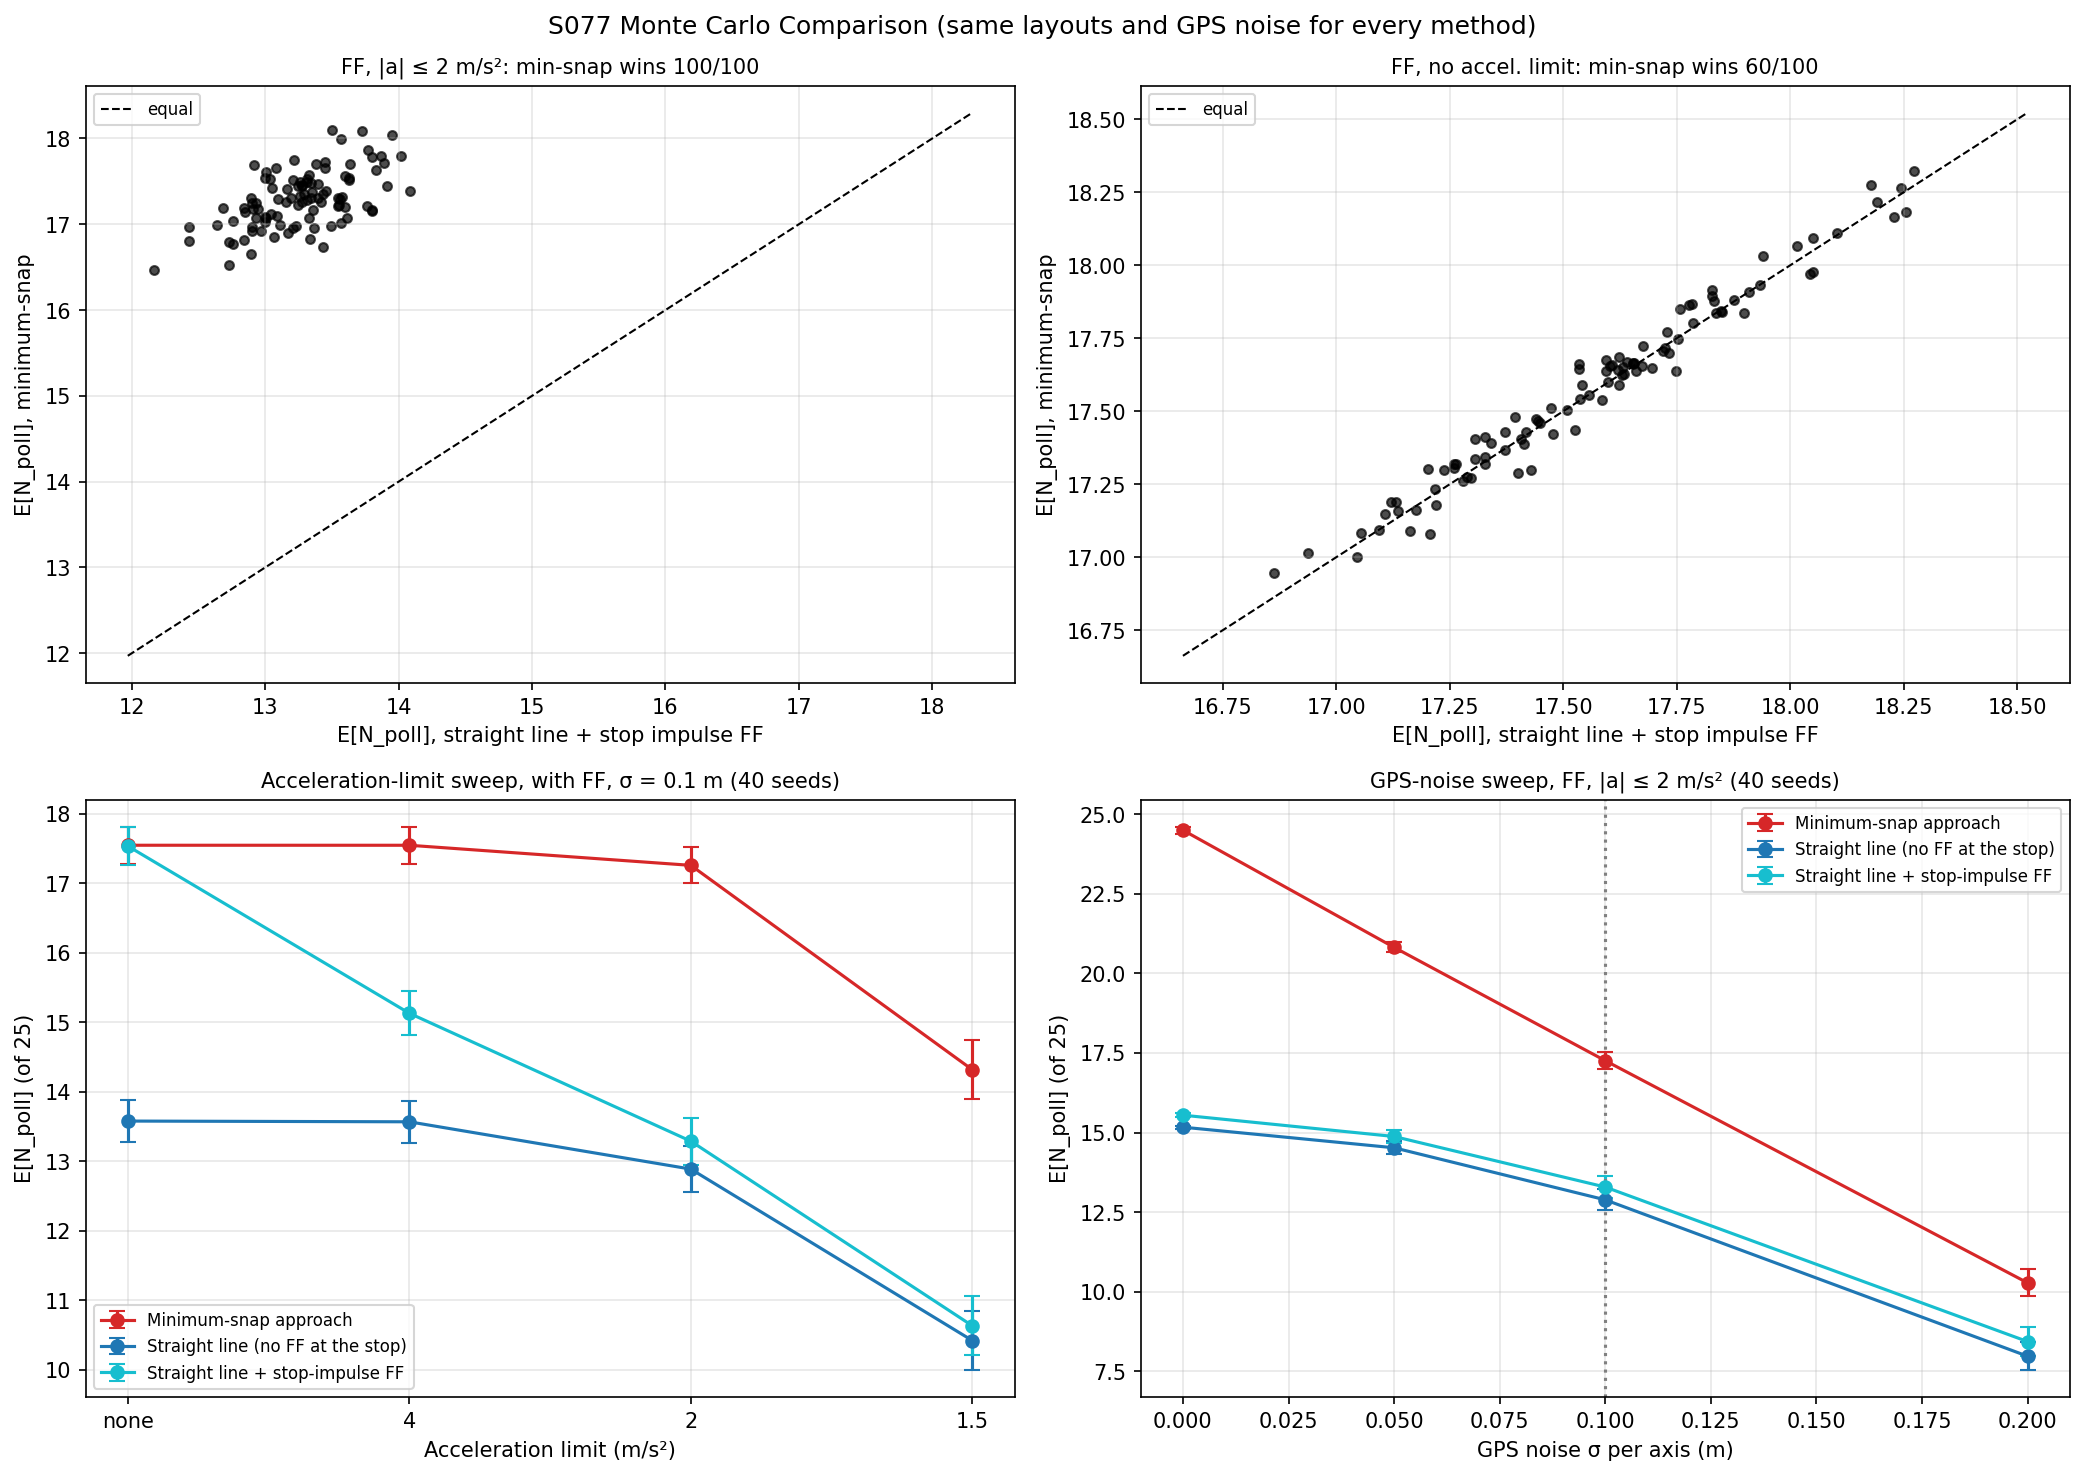
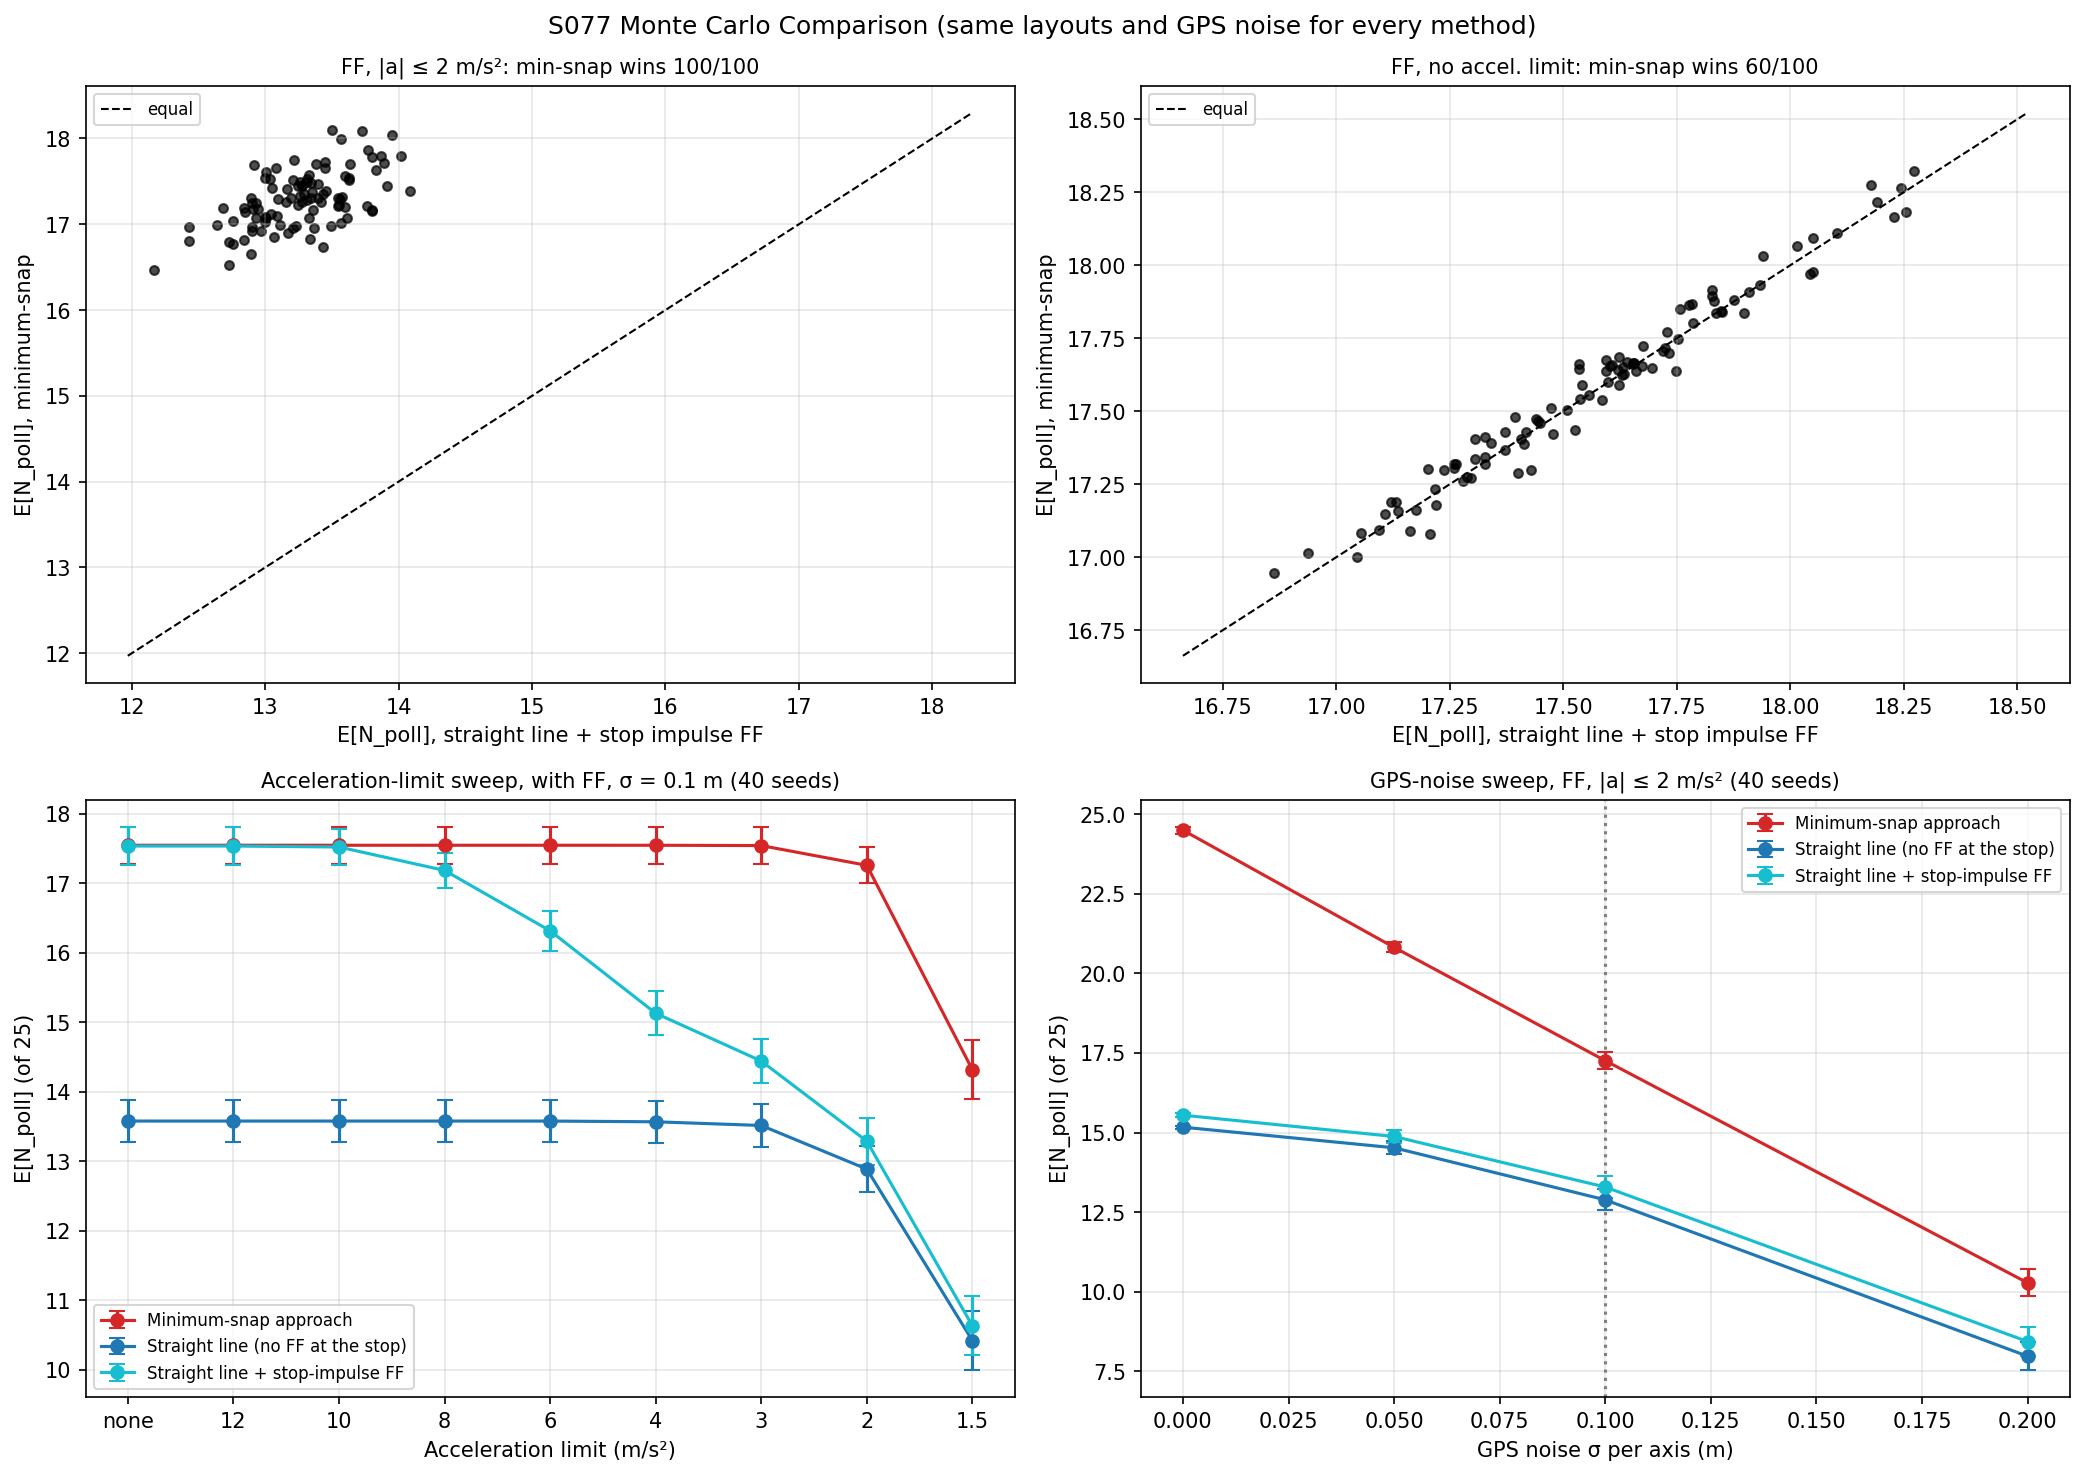
Fix S077 Precision Pollination Flight Pattern: address review follow-ups
Extend the acceleration-limit sweep to 12, 10, 8, 6 and 3 m/s^2 with paired
gaps; state that the min-snap advantage shrinks with a_max and vanishes near
v_approach/dt; label seed-42 single-run figures.

diff --git a/src/04_industrial_agriculture/s077_pollination.py b/src/04_industrial_agriculture/s077_pollination.py
@@ -51,7 +51,7 @@ TAU_V       = 0.3        # s   first-order velocity response time constant
 KP          = 2.0        # 1/s position-error gain of the tracking loop
 V_MAX       = 3.0        # m/s commanded-speed limit
 A_MAX       = 2.0        # m/s^2 acceleration limit of the airframe (main configuration)
-A_SWEEP     = [float('inf'), 4.0, 2.0, 1.5]   # m/s^2 acceleration-limit sweep
+A_SWEEP     = [float('inf'), 12.0, 10.0, 8.0, 6.0, 4.0, 3.0, 2.0, 1.5]   # m/s^2 sweep
 T_HOVER_VIA = 1.0        # s   minimum hover above the approach point before the descent
 N_MC        = 100        # Monte Carlo seeds (layout + GPS noise)
 SIGMA_SWEEP = [0.0, 0.05, 0.1, 0.2]   # m GPS-noise sweep
@@ -632,8 +632,11 @@ if __name__ == '__main__':
             s_ = sw['min_snap'][i]
             parts = [f'{LABELS[m]} {sw[m][i].mean():.2f} ± {sw[m][i].std():.2f}' for m in METHODS]
             wins = [f'vs {m} {int(np.sum(s_ > sw[m][i]))}/{N_SWEEP}' for m in METHODS[1:]]
+            gap = (s_ - sw['straight_ff'][i]).mean()
             print('    ' + fmt.format(xv) + ': ' + ', '.join(parts) + '; min-snap wins ' +
-                  ', '.join(wins))
+                  ', '.join(wins) + f'; paired gap vs straight_ff {gap:+.3f}')
+    print(f'  Size of the one-step stop impulse v_approach / dt = {V_APPROACH / DT:.1f} m/s^2 '
+          f'(an artefact of the {DT} s step, not an airframe property)')
 
     out = os.path.normpath(OUTPUT_DIR)
     os.makedirs(out, exist_ok=True)

diff --git a/outputs/04_industrial_agriculture/s077_pollination/README.md b/outputs/04_industrial_agriculture/s077_pollination/README.md
@@ -49,7 +49,7 @@ The drone is a 3D point mass whose velocity follows the command with time consta
 
 $$\mathbf{v}_{cmd} = \mathbf{v}_{ref} + \tau_v\,\mathbf{a}_{ref} + K_p(\mathbf{p}_{ref} - \tilde{\mathbf{p}}), \qquad \Delta\mathbf{v} = \text{clip}_{\|\cdot\| \le a_{max}\Delta t}\bigl((1 - e^{-\Delta t/\tau_v})(\mathbf{v}_{cmd} - \mathbf{v})\bigr), \qquad |\mathbf{v}_{cmd}| \le 3\ \text{m/s}$$
 
-Here $\tilde{\mathbf{p}} = \mathbf{p} + \boldsymbol{\eta}$ is the GPS measurement, with $\boldsymbol{\eta} \sim \mathcal{N}(0, \sigma_{GPS}^2 I)$ drawn every 0.05 s. The term $\tau_v\mathbf{a}_{ref}$ is the **acceleration feedforward (FF)**. Four configurations are run: FF on or off, crossed with $a_{max}$ = 2 m/s² (main) or no limit. The main configuration's 2 m/s² limit is above the min-snap reference's 1.57 m/s² peak and far below the 10 m/s² impulse the straight-line stop asks for.
+Here $\tilde{\mathbf{p}} = \mathbf{p} + \boldsymbol{\eta}$ is the GPS measurement, with $\boldsymbol{\eta} \sim \mathcal{N}(0, \sigma_{GPS}^2 I)$ drawn every 0.05 s. The term $\tau_v\mathbf{a}_{ref}$ is the **acceleration feedforward (FF)**. Four configurations are run: FF on or off, crossed with $a_{max}$ = 2 m/s² (main) or no limit. The main configuration uses a tight 2 m/s² limit: above the min-snap reference's 1.57 m/s² peak, and far below the 10 m/s² impulse the straight-line stop asks for. Typical multirotors manage 5–10 m/s². The limit is therefore swept from 1.5 to 12 m/s² and to no limit. The 10 m/s² impulse is $v_{approach}/\Delta t$, a property of the 0.05 s time step, not of the airframe.
 
 ### Docking error and transfer probability
 
@@ -75,7 +75,7 @@ Here $\mathbf{p}$ is the **true** position. Overshoot is the largest distance pa
 | Velocity time constant $\tau_v$ (added) | 0.3 s |
 | Position gain $K_p$ (added) | 2.0 s⁻¹ |
 | Speed limit (added) | 3 m/s |
-| Acceleration limit $a_{max}$ (added) | 2 m/s² (main); sweep: none, 4, 2, 1.5 m/s² |
+| Acceleration limit $a_{max}$ (added) | 2 m/s² (main, deliberately tight); sweep: none, 12, 10, 8, 6, 4, 3, 2, 1.5 m/s² |
 | Hover above the approach point before the descent (added) | ≥ 1.0 s (docking window 8.35 s) |
 | Seed of the example run | 42 |
 | Monte Carlo | 100 seeds (layout + GPS noise), shared by all methods and configurations |
@@ -94,7 +94,7 @@ conda activate drones
 python src/04_industrial_agriculture/s077_pollination.py
 ```
 
-Runtime ≈ 1.5–2 min (83–120 s measured while other simulations shared the CPU). All docking windows of all seeds are flown in one vectorised loop. The climb and transit legs are not scored and are flown kinematically on their references.
+Runtime ≈ 1.5–2.5 min (100–139 s measured while other simulations shared the CPU). All docking windows of all seeds are flown in one vectorised loop. The climb and transit legs are not scored and are flown kinematically on their references.
 
 ---
 
@@ -113,20 +113,30 @@ Percentages are the transfer success rate $E[N_{poll}]/25$. Without FF, the two 
 
 ### Acceleration-limit sweep (FF, σ = 0.1 m, 40 seeds)
 
-| $a_{max}$ (m/s²) | none | 4 | 2 | 1.5 |
-|---|---:|---:|---:|---:|
-| Minimum-snap | 17.55 | 17.55 | 17.26 | 14.32 |
-| Straight + stop-impulse FF | 17.54 | 15.13 | 13.29 | 10.63 |
-| Straight (no FF at stop) | 13.58 | 13.57 | 12.89 | 10.42 |
-| Min-snap wins vs straight + FF | 22/40 | 40/40 | 40/40 | 40/40 |
+| $a_{max}$ (m/s²) | none | 12 | 10 | 8 | 6 | 4 | 3 | 2 | 1.5 |
+|---|---:|---:|---:|---:|---:|---:|---:|---:|---:|
+| Minimum-snap | 17.55 | 17.55 | 17.55 | 17.55 | 17.55 | 17.55 | 17.54 | 17.26 | 14.32 |
+| Straight + stop-impulse FF | 17.54 | 17.54 | 17.52 | 17.19 | 16.32 | 15.13 | 14.44 | 13.29 | 10.63 |
+| Straight (no FF at stop) | 13.58 | 13.58 | 13.58 | 13.58 | 13.58 | 13.57 | 13.51 | 12.89 | 10.42 |
+| Paired gap, min-snap − straight + FF | +0.011 | +0.011 | +0.025 | +0.362 | +1.231 | +2.418 | +3.102 | +3.971 | +3.686 |
+| Min-snap wins vs straight + FF | 22/40 | 22/40 | 30/40 | 40/40 | 40/40 | 40/40 | 40/40 | 40/40 | 40/40 |
 
 The tour is 52.43 m long. The mission takes 312.05 s with min-snap and 311.90 s with the straight lines; only the kinematic climb after each dwell differs slightly, so mission time is not a comparison metric.
 
 **Key findings**:
 - **With the stop fed forward and no acceleration limit, the trajectory shape does not matter.** Feeding the straight line's stop forward as a one-step deceleration lets it match min-snap: 17.57 vs 17.58 flowers, min-snap wins only 60/100 paired seeds. Noise-free for seed 42 it reaches 23.95 against min-snap's 24.99. The earlier 100/100 min-snap win came from denying the straight line this feedforward. Its 10 m/s² stop impulse is only possible with an unlimited acceleration.
-- **With a realistic acceleration limit, min-snap wins clearly.** At $a_{max}$ = 2 m/s², the min-snap reference (peak 1.57 m/s²) stays flyable and the drone reaches the flower almost at rest (0.004 m/s at the start of the dwell, noise-free). The straight line's stop is clipped to 2 m/s², so the drone is still moving at 0.402 m/s when the dwell starts and overshoots by 0.0837 m, even with FF. Min-snap wins all 100 paired seeds (+4.027 flowers). The acceleration-limit sweep shows the advantage appearing as soon as the limit binds: 22/40 wins with no limit, 40/40 at 4, 2 and 1.5 m/s². This is the physical reason a smooth reference beats a straight line: a real airframe cannot decelerate instantly.
+- **Min-snap's advantage grows as the acceleration limit tightens, and vanishes around $v_{approach}/\Delta t$ = 10 m/s².**
+  - At the deliberately tight $a_{max}$ = 2 m/s², the min-snap reference (peak 1.57 m/s²) stays flyable and the drone reaches the flower almost at rest (0.004 m/s at the start of the dwell, seed 42 noise-free). The straight line's stop is clipped to 2 m/s², so even with FF the drone is still moving at 0.402 m/s when the dwell starts and overshoots by 0.0837 m. Min-snap wins all 100 paired seeds (+4.027 flowers).
+  - In the 40-seed sweep the paired gap against the FF straight line is +3.971 at 2 m/s², +2.418 at 4, +1.231 at 6, +0.362 at 8, +0.025 at 10, and +0.011 at 12 m/s² and with no limit. Min-snap wins 40/40 down to 8 m/s², then 30/40 at 10 and 22/40 at 12.
+  - The gap closes at 10 m/s², the size of the one-step stop impulse. Above that, the FF straight line can execute its stop exactly.
+  - That threshold is set by the 0.05 s simulation step, not by an airframe. For multirotors with the more typical 6–10 m/s² limit, the sweep gives a gap of only +1.231 to +0.025 flowers, not 4.
+  - The physical point stands: a smooth reference wins only when the airframe cannot decelerate as abruptly as the straight-line stop demands.
 - **Without feedforward, min-snap loses**, in both limit settings (0/100). Its reference must speed up to 0.830 m/s mid-segment and then brake, and the lagging drone overshoots more: 0.1362 m vs 0.0951 m with no limit, 0.1715 vs 0.1220 m at 2 m/s².
-- **Why min-snap wins noise-free but loses with noise when there is no FF** (no limit). Noise-free, it has the larger, earlier overshoot: mean distance 0.0910 m in the first half of the dwell vs 0.0787 m for the straight line. But it then settles closer: 0.0105 vs 0.0244 m in the second half. That gives a slightly lower mean (0.0507 vs 0.0515 m) and the win (15.06 vs 14.94; 40/40 at σ = 0 in the 40-seed sweep). With GPS noise the noise sets a floor in the second half (0.0426 vs 0.0490 m), so min-snap's settling advantage mostly disappears. Its larger first-half error then dominates: 0.1019 vs 0.0896 m, mean 0.0722 vs 0.0693 m. It loses at σ = 0.05, 0.1 and 0.2 m (0/40 each). Overshoot alone does not explain the reversal: min-snap overshoots more in both cases.
+- **Why min-snap wins noise-free but loses with noise when there is no FF** (no limit).
+  - **Single run, seed 42, noise-free:** min-snap has the larger, earlier overshoot (mean distance 0.0910 m in the first half of the dwell vs 0.0787 m) but settles closer (0.0105 vs 0.0244 m in the second half). That gives a slightly lower mean, 0.0507 vs 0.0515 m, and E[N] 15.06 vs 14.94.
+  - **Same seed, σ = 0.1 m:** the noise sets a floor in the second half (0.0426 vs 0.0490 m), so the settling advantage mostly disappears. The larger first-half error then dominates: 0.1019 vs 0.0896 m, mean 0.0722 vs 0.0693 m.
+  - **40-seed sweep:** min-snap wins 40/40 at σ = 0 and 0/40 at σ = 0.05, 0.1 and 0.2 m.
+  - Overshoot alone does not explain the reversal: min-snap overshoots more in both cases.
 - **GPS noise sets the ceiling.** In the main configuration, min-snap falls from 24.50 (σ = 0) to 20.82, 17.26 and 10.28 flowers at σ = 0.05, 0.1 and 0.2 m. The straight line with FF falls from 15.55 to 14.88, 13.29 and 8.43. Min-snap wins 40/40 at every σ.
 - **Card expectations**: min-snap meets all three targets: mean $e_{dock}$ 0.0374 m (< 0.12), 69.2 % (> 35 %), 17.29 (> 9). The straight-line targets do not hold: 0.0675 m (card 0.15–0.25), 51.5 % (card < 25 %), 12.87 (card < 7). The P loop filters the white GPS noise, so the true docking error stays well below $\sigma_{GPS}$. The card's own error model (error = the GPS sample itself) gives $E\|\eta\| = 0.1596$ m and $P_t = 0.203$ for **every** method, so it cannot separate them.
 - The descent curls under the approach point to join the 30° line. The lowest altitude flown in seed 42 is 0.46 m; the lowest approach point is 0.61 m.
@@ -195,7 +205,7 @@ Seed 42, main configuration: all three drones fly the tour; flowers turn green o
 | Departure "vertically upward"; card code flew straight from the flower to the next via point | Vertical climb to 3.5 m, then transit | Follows the card's problem statement. |
 | Transit legs part of the simulated flight | Climb and transit flown kinematically on smooth references; each docking window (hover ≥ 1 s at the via point, descent, approach, dwell) flown dynamically | Docking is the only scored part. The fixed-length windows let all seeds run in one vectorised loop. |
 | Single run with seed 42 | Seed 42 for the figures, plus 100-seed Monte Carlo and 40-seed sweeps with common random numbers | Results depend on random noise (X2). |
-| Added parameters | $\tau_v$ = 0.3 s, $K_p$ = 2 s⁻¹, $v_{max}$ = 3 m/s, $a_{max}$ = 2 m/s², via-point hover ≥ 1 s | Needed for the dynamic model; not in the card. $a_{max}$ is also swept. |
+| Added parameters | $\tau_v$ = 0.3 s, $K_p$ = 2 s⁻¹, $v_{max}$ = 3 m/s, $a_{max}$ = 2 m/s², via-point hover ≥ 1 s | Needed for the dynamic model; not in the card. $a_{max}$ = 2 m/s² is deliberately tight; the headline gap depends on it, so it is swept from 1.5 to 12 m/s² and no limit. |
 
 ---
 

diff --git a/scenarios/04_industrial_agriculture/S077_pollination.md b/scenarios/04_industrial_agriculture/S077_pollination.md
@@ -619,7 +619,9 @@ if __name__ == '__main__':
 > **Correction (implementation, 100 seeds)**: with acceleration feedforward and a 2 m/s²
 > acceleration limit, the results are min-snap 0.037 m / 69.2 % / 17.29 and straight line
 > 0.068 m / 51.5 % / 12.87. The straight-line targets (0.15–0.25 m, < 25 %, < 7) are not reproduced.
-> Min-snap's advantage needs both feedforward and an acceleration limit.
+> Min-snap's advantage needs both feedforward and an acceleration limit. The 2 m/s² limit is
+> deliberately tight. The gap shrinks as the limit is raised (+0.362 at 8 m/s², 40 seeds) and
+> vanishes around $v_{approach}/\Delta t$ = 10 m/s².
 > - With the straight-line stop also fed forward and **no** acceleration limit, the two are
 >   equal (17.58 vs 17.57).
 > - Without feedforward, min-snap is *worse* (12.79 vs 13.15 without a limit).
